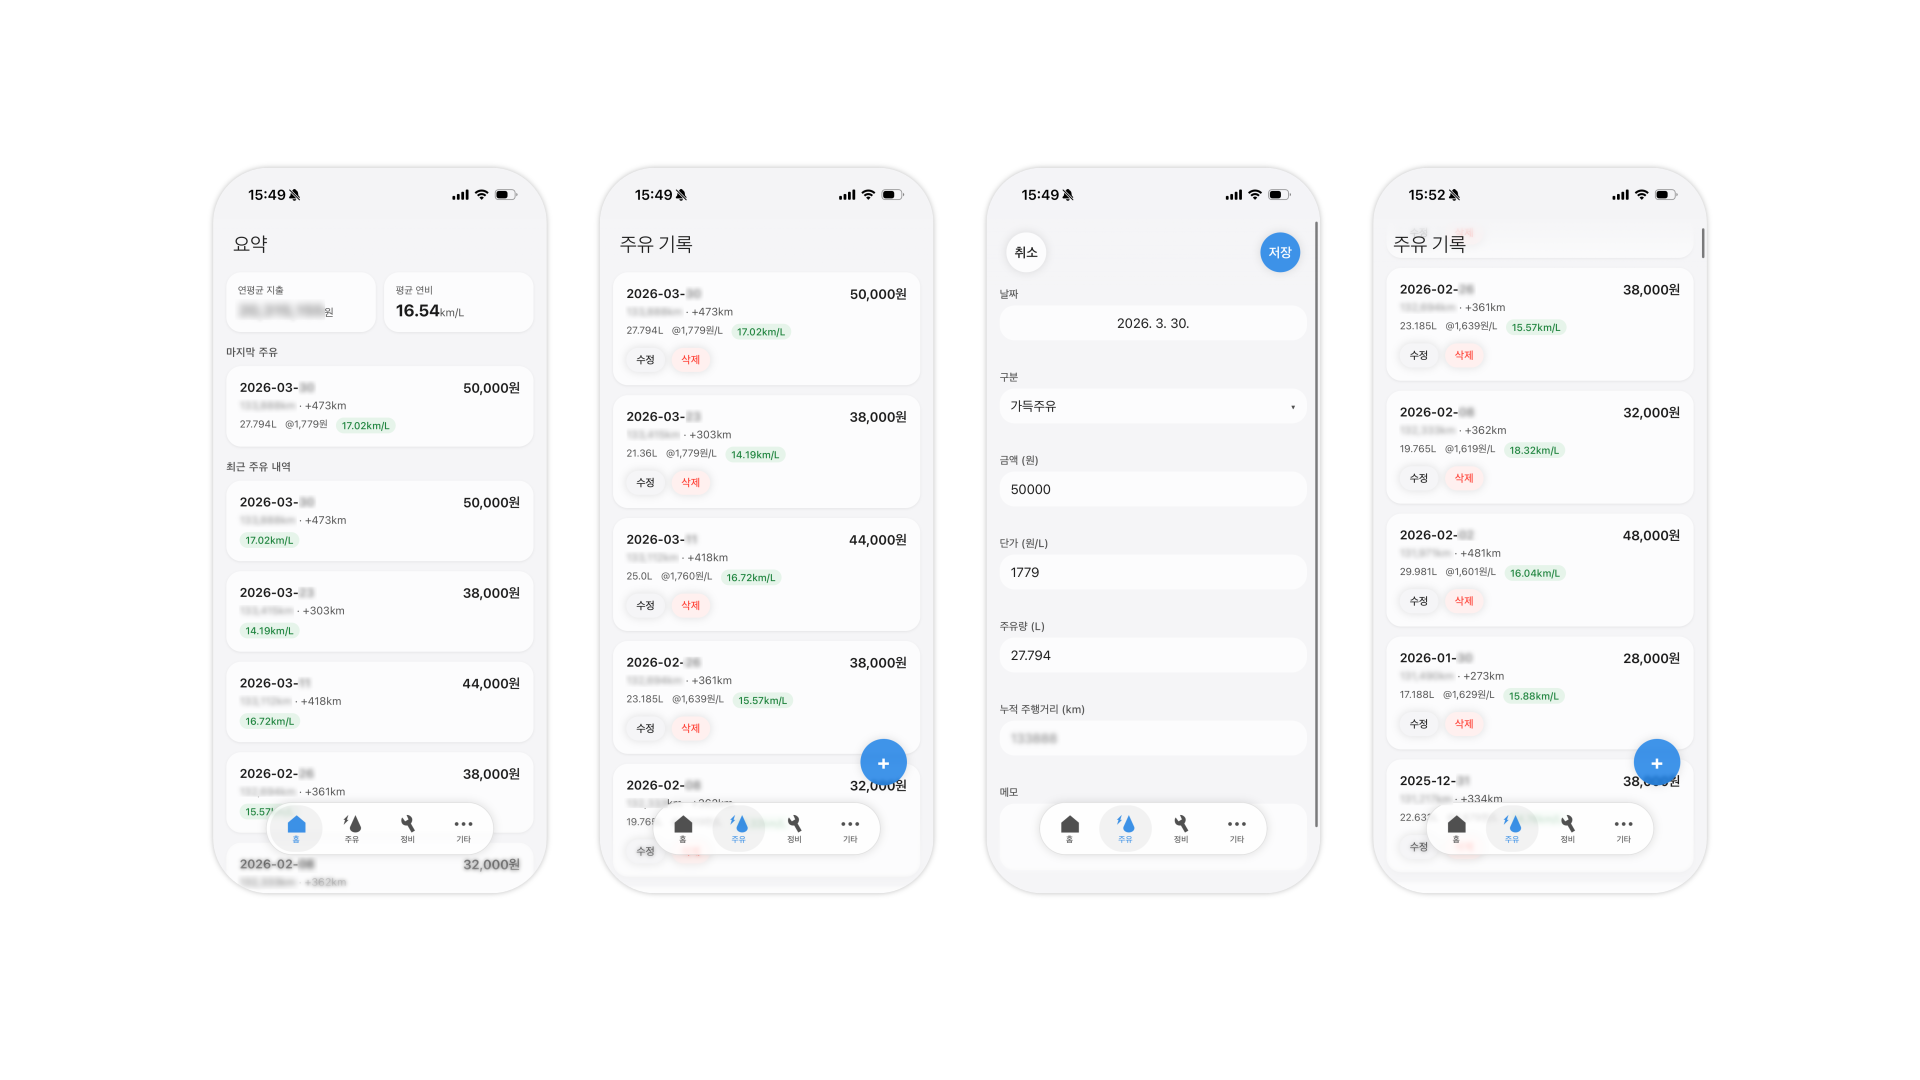
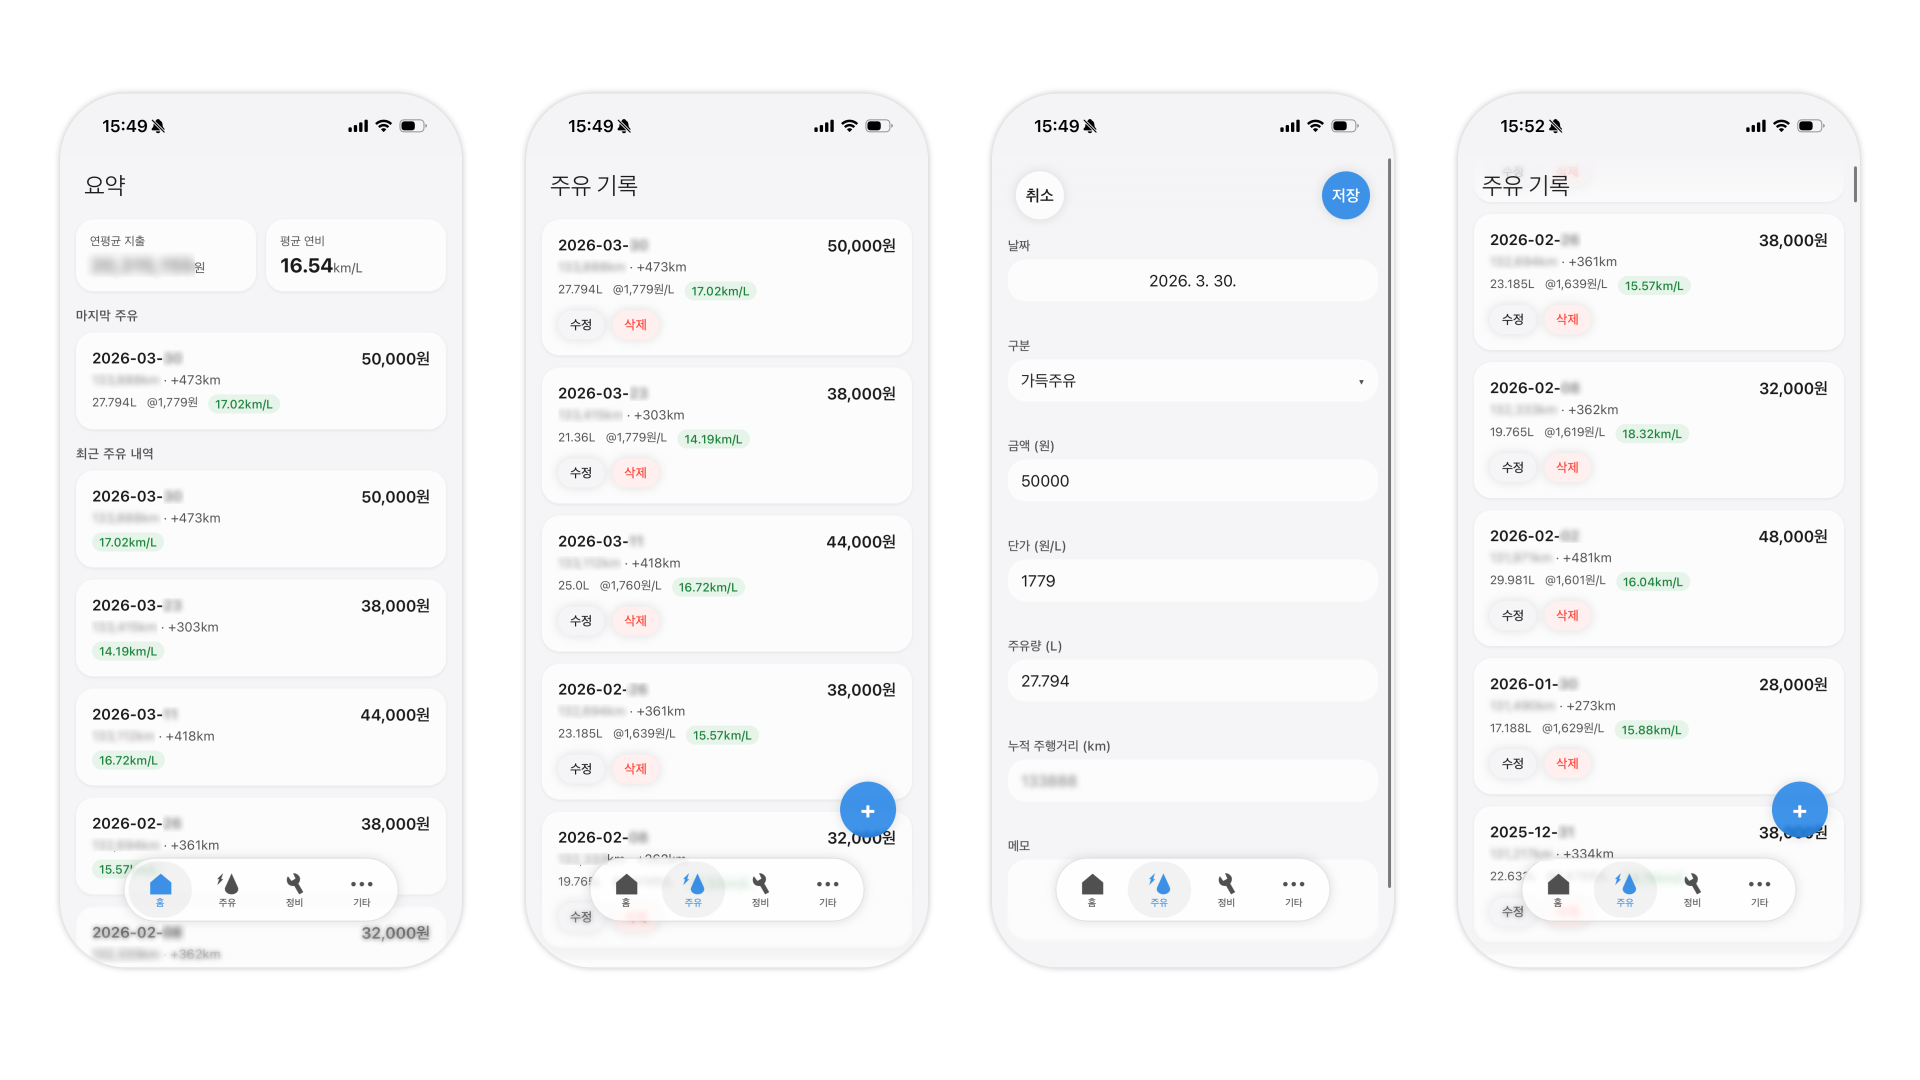
v26.4.2a

diff --git a/README.md b/README.md
@@ -95,4 +95,4 @@ docker compose up -d --build
 ### v26.4.1a
 ![차필 아이콘](screenshot_icon.png)
 ### v26.3.30a
-![26.03.30 알파버전 실행 화면. 주유 탭에 활성화 되어 있고, 목록에는 주유 기록이 나열되어 있다. 연비가 표시되어 있으며, 수정 버튼과 삭제 버튼도 각 기록마다 존재한다.](screenshot_v260330a.jpg)
+<img src="screenshot_v260330a.jpg" alt="26.03.30 알파버전 실행 화면. 주유 탭에 활성화 되어 있고, 목록에는 주유 기록이 나열되어 있다. 연비가 표시되어 있으며, 수정 버튼과 삭제 버튼도 각 기록마다 존재한다." width="300">
